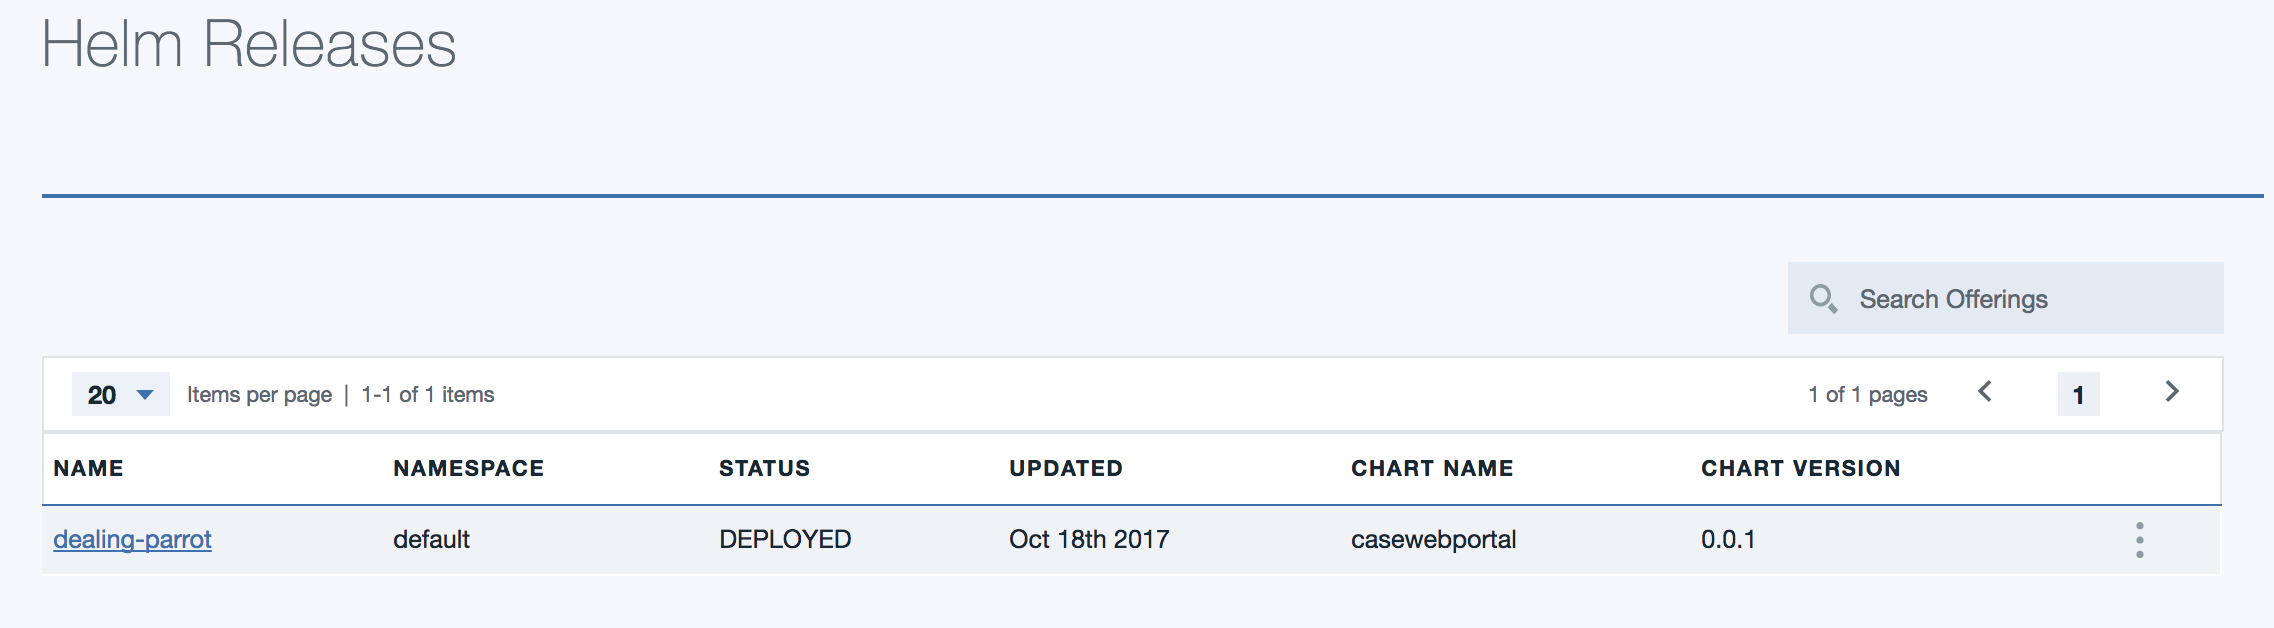
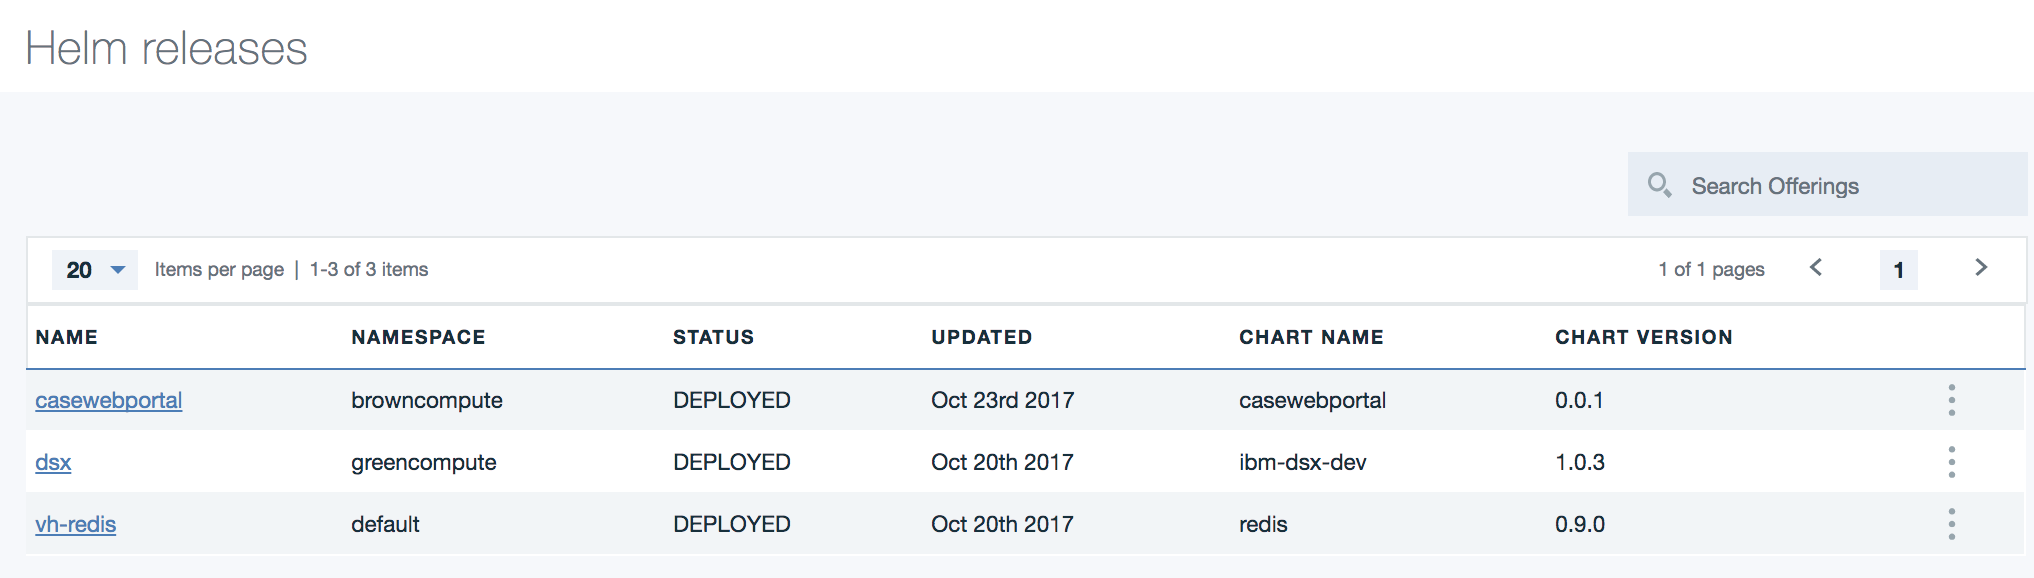
UPdate icp deployment

diff --git a/server/routes/features/inventoryProxy.js b/server/routes/features/inventoryProxy.js
@@ -1,3 +1,18 @@
+/**
+ * Copyright 2017 IBM Corp. All Rights Reserved.
+ *
+ * Licensed under the Apache License, Version 2.0 (the "License");
+ * you may not use this file except in compliance with the License.
+ * You may obtain a copy of the License at
+ *
+ *      http://www.apache.org/licenses/LICENSE-2.0
+ *
+ * Unless required by applicable law or agreed to in writing, software
+ * distributed under the License is distributed on an "AS IS" BASIS,
+ * WITHOUT WARRANTIES OR CONDITIONS OF ANY KIND, either express or implied.
+ * See the License for the specific language governing permissions and
+ * limitations under the License.
+ */
 var https=require('https');
 
 const request = require('request').defaults({strictSSL: false});
@@ -7,9 +22,9 @@ var caCerts =fs.readFileSync(path.resolve(__dirname, '../../../ssl/ca.all.crt.pe
 
 
 /**
-Build the HTTP header to be used to call back end services using TLS
+Build the HTTP header to be used to call back end services using TLS. It ingects the
+JWT token in authorization. The token was part of the login response
 */
-
 var buildOptions=function(token,met,aPath,config){
   return {
     url: config.getGatewayUrl()+aPath,
@@ -26,6 +41,7 @@ var buildOptions=function(token,met,aPath,config){
   }
 }
 
+
 var processRequest = function(res,opts) {
   console.log(`processing request to url [${opts.method}]:`, JSON.stringify(opts))
   request(opts,
@@ -41,6 +57,7 @@ var processRequest = function(res,opts) {
 
 
 module.exports = {
+  // Load all items. Need to be modified to get items from id
   getItems : function(config,req,res){
     var user = JSON.parse(req.user)
     var opts = buildOptions(user.access_token,'GET','/items',config);
@@ -57,7 +74,7 @@ module.exports = {
     var opts = buildOptions(user.access_token,'PUT','/item/'+req.params.id,config);
     opts.body=      JSON.stringify(req.body.item);
     processRequest(res,opts);
-  }, // save item
+  }, // update item
   deleteItem : function(config,req,res){
     var user = JSON.parse(req.user)
     var opts = buildOptions(user.access_token,'DELETE','/item/'+req.params.id,config);

diff --git a/server/routes/passport.js b/server/routes/passport.js
@@ -1,3 +1,18 @@
+/**
+ * Copyright 2017 IBM Corp. All Rights Reserved.
+ *
+ * Licensed under the Apache License, Version 2.0 (the "License");
+ * you may not use this file except in compliance with the License.
+ * You may obtain a copy of the License at
+ *
+ *      http://www.apache.org/licenses/LICENSE-2.0
+ *
+ * Unless required by applicable law or agreed to in writing, software
+ * distributed under the License is distributed on an "AS IS" BASIS,
+ * WITHOUT WARRANTIES OR CONDITIONS OF ANY KIND, either express or implied.
+ * See the License for the specific language governing permissions and
+ * limitations under the License.
+ */
 //passport.js
 var LocalStrategy = require('passport-local').Strategy;
 

diff --git a/client/app/conv/conversation.component.ts b/client/app/conv/conversation.component.ts
@@ -30,7 +30,7 @@ export class ConversationComponent {
         this.context=data.context;
         let s:Sentence = new Sentence();
         s.direction="from-watson";
-        s.text=data.text;
+        s.text=data.output.text[0];
         this.currentDialog.push(s)
       },
       error => {

diff --git a/docs/run-icp.md b/docs/run-icp.md
@@ -1,12 +1,16 @@
 # Run 'Case Web Portal' on IBM Cloud Private
 We propose to package this nodejs webapp as a docker image, build a helm chart and then publish it to an ICP instance.
 
-Updated 10/18/2107
+Updated 10/21/2107
+## Table of contents
+* [Prerequisites](#prerequisites)
+* [Build](#build)
+* [Deploy to ICP](#push-docker-image-to-icp-private-docker-repository)
 
 ## Prerequisites
-See this general [list](https://github.com/ibm-cloud-architecture/refarch-integration/blob/master/docs/icp/icp-deploy.md#prerequisites)
+See this [list](https://github.com/ibm-cloud-architecture/refarch-integration/blob/master/docs/icp/icp-deploy.md#prerequisites) for ICP prerequisites.
 
-We assume in the following commands that the cluster name is: **mycluster.icp** and a namespace was created with the name **brown**.
+We assume the cluster name is: **mycluster.icp** and a namespace was created with the name **brown**.
 
 ## Build
 As seen in the section [Deploy the CaseInc Portal App in Bluemix Kubernetes Service](https://github.com/ibm-cloud-architecture/refarch-caseinc-app#deploy-the-caseinc-portal-app-in-bluemix-kubernetes-service), this project includes a docker file to build a docker image. You can build the image to your local repository using the command:
@@ -16,7 +20,7 @@ $ npm run build
 $ docker build -t case/webportal .
 $ docker images
 ```
-Then tag your local image with the name of the remote ICP server where the docker registry resides, and the namespace to use. (*mycluster.icp:8500* is the remote server and *brown* is the namespace)
+Then tag your local image with the name of the remote ICP server where the docker registry resides. (*mycluster.icp:8500* is the remote server)
 ```
 $ docker tag case/webportal mycluster.icp:8500/brown/casewebportal:v0.0.1
 $ docker images
@@ -60,7 +64,56 @@ imagePullSecrets:
 ```
 
 ### Chart.yaml
-Set the version and name it will be use in deployment.yaml. Each time you deploy a new version of your app you can just change the version number. The values in the char.yaml are used in the templates.
+Set the version and name attributes, as they will be used in deployment.yaml. Each time you deploy a new version of your app you can just change the version number. The values in the char.yaml are used in the templates.
+
+### Add configMap templates
+The config.json is a file that can be used when deploying on bluemix or locally, but when running on container within kubernetes it is good practice to externalize application configuration in config map. To do so we need to create a new template **templates/configmap.yaml**. This file uses the same structure as the config.json file but externalizes to get the parameter values from the values.yaml so developer can changes only one file to control the configuration.
+
+```yaml
+apiVersion: v1
+kind: ConfigMap
+metadata:
+  name: {{ template "fullname" . }}
+  labels:
+    chart: "{{ .Chart.Name }}-{{ .Chart.Version | replace "+" "_" }}"
+data:
+  config.json: |+
+    {
+        "secureGateway" :{
+          "url":"{{ .Values.config.secureGateway.url }}"
+        },
+        "apiGateway" :{
+          "hostUrl": "{{ .Values.config.apiGateway.hostUrl }}",
+          "url": "{{ .Values.config.apiGateway.url }}",
+          "xibmclientid": "{{ .Values.config.apiGateway.clientid }}"
+        },
+        "conversationBroker" :{
+          "url":"{{ .Values.config.conversationBroker.url }}"
+        },
+        "mode" : "{{ .Values.config.mode }}",
+        "environment" : "{{ .Values.config.environment }}",
+        "port": "{{ .Values.config.port }}",
+        "version": "{{ .Values.config.version }}"
+    }
+
+```
+
+### Modify deployment.yaml
+The configuration file can be overloaded by using the create content from the k8s config map. To do so we need to define a Volume to mount to the config.json file in the deployment.yaml as the following:
+```yaml
+volumeMounts:
+- name: config
+  mountPath: /caseportal/server/config.json
+  subPath: config.json
+```
+the path */caseportal* comes from the dockerfile, working directory declaration. The volume name (config) is arbitrary but needs to match a volume declared in the deployment.yaml. For example the volume is declared as **config** and use a configMap named using the template name of the helm package. See the paragraph above for the configmap.
+
+```yaml      
+volumes:
+      - name: config
+        configMap:
+          name:  {{ template "fullname" . }}
+```
 
 ### values.yaml
 Specify in this file the docker image name and tag
@@ -80,7 +133,7 @@ $ helm lint casewebportal
 # if you do not have issue ...
 $ helm package casewebportal
 ```
-These commands should create a zip file with the content of the casewebportal folder.
+These commands should create a zip file with the content of the casewebportal folder. You will use the zip file if you want to get the package visible inside the Catalog.
 
 ## Deploy the helm package
 There are multiple ways to upload the app to ICP using helm. We can use a private repository, which is a HTTP server, to upload the package file and then use the repository synchronization in ICP to get the chart visible in Application Center, or we can use the `helm install` command:
@@ -88,9 +141,9 @@ There are multiple ways to upload the app to ICP using helm. We can use a privat
 ### Use helm commmand
 * Use helm install command to install a chart archive directly to kubernetes cluster
 ```
-$ helm install casewebportal
+$ helm install casewebportal --name casewebportal --namespace brown
 
-NAME:   dealing-parrot
+NAME:   casewebportal
 LAST DEPLOYED: Wed Oct 18 16:08:24 2017
 NAMESPACE: default
 STATUS: DEPLOYED
@@ -98,22 +151,22 @@ STATUS: DEPLOYED
 RESOURCES:
 ==> v1/ConfigMap
 NAME                          DATA  AGE
-dealing-parrot-casewebportal  1     1s
+casewebportal-casewebportal  1     1s
 
 ==> v1/Service
 NAME                          CLUSTER-IP  EXTERNAL-IP  PORT(S)   AGE
-dealing-parrot-casewebportal  10.0.0.83   <none>       6100/TCP  1s
+casewebportal-casewebportal  10.0.0.83   <none>       6100/TCP  1s
 
 ==> v1beta1/Deployment
 NAME                          DESIRED  CURRENT  UP-TO-DATE  AVAILABLE  AGE
-dealing-parrot-casewebportal  1        1        1           0          1s
+casewebportal-casewebportal  1        1        1           1          1s
 
 
 NOTES:
 1. Get the application URL by running these commands:
-  export POD_NAME=$(kubectl get pods --namespace default -l "app=dealing-parrot-casewebportal" -o jsonpath="{.items[0].metadata.name}")
+  export POD_NAME=$(kubectl get pods --namespace brown -l "app=casewebportal-casewebportal" -o jsonpath="{.items[0].metadata.name}")
   echo "Visit http://127.0.0.1:8080 to use your application"
-  kubectl port-forward $POD_NAME 8080:6100
+  kubectl port-forward $POD_NAME 8080:6100 --namespace brown
 ```
 
 From the above we can see that a deployment was created in kubernetes, the casewebportal runs on one pod and a service got created to expose the deployment on the cluster IP on port 6100. And the NOTES section tells us how to access the pod from our local machine.
@@ -121,37 +174,19 @@ From the above we can see that a deployment was created in kubernetes, the casew
 You can login to ICP console and look at the Workloads > Helm Releases
 ![](helm-deployed.png)
 
-### Use helm repository
-The steps look like:
-* copy the tfgz file to the repository. (9.19.34.117 is a HTTP server running in our data center)
-```
-$ scp casewebportal-0.0.1.tgz boyerje@9.19.34.117:/storage/CASE/refarch-privatecloud
-```
-* If you want to have you to update your private catalog, you need to modify the index.yaml file.  The index file describe how your applications is listed in the ICP Application Center:
-```
-$ wget http://172.16.0.5/storage/CASE/local-charts/index.yaml
-$ helm repo index --merge index.yaml --url http://9.19.34.117:/storage/CASE/refarch-privatecloud ./
-$ scp index.yaml boyerje@172.16.0.5/storage/CASE/local-charts
-```
-The 172.16.0.5 is a HTTP server which hosts the local-charts repository. You can see its references in the System menu
-![](charts-server-info.png)
-
-Once the repository are synchronized your helm chart should be in the catalog:
-![](helm-in-app-center.png)
-
-
 ### Use helm upgrade
-Get the helm release list
+We can upgrade an existing running application. You can use the ICP admin console to get the name of the deployed helm release. or use the helm CLI.
 
 ```
-helm list
+$ helm list
 > NAME           	REVISION	UPDATED                 	STATUS  	CHART              	NAMESPACE
 default-iib    	1       	Sat Sep  9 08:41:55 2017	DEPLOYED	iib-0.1.2          	default  
-joyous-dragon  	1       	Thu Sep 14 13:17:39 2017	DEPLOYED	casewebportal-0.0.1	default  
-ungaged-ladybug	1       	Fri Oct  6 16:07:58 2017	DEPLOYED	casewebportal-0.0.2	default  
+casewebportal  	1       	Thu Sep 14 13:17:39 2017	DEPLOYED	casewebportal-0.0.1	default  
 
-# upgrade a release with a new version
-helm upgrade ungaged-ladybug	 ./casewebportal
+* build a new docker image, tag it with a new version
+
+* upgrade a release with a new version
+helm upgrade casewebportal	 ./casewebportal
 ```
 
 ### Verify the app is deployed
